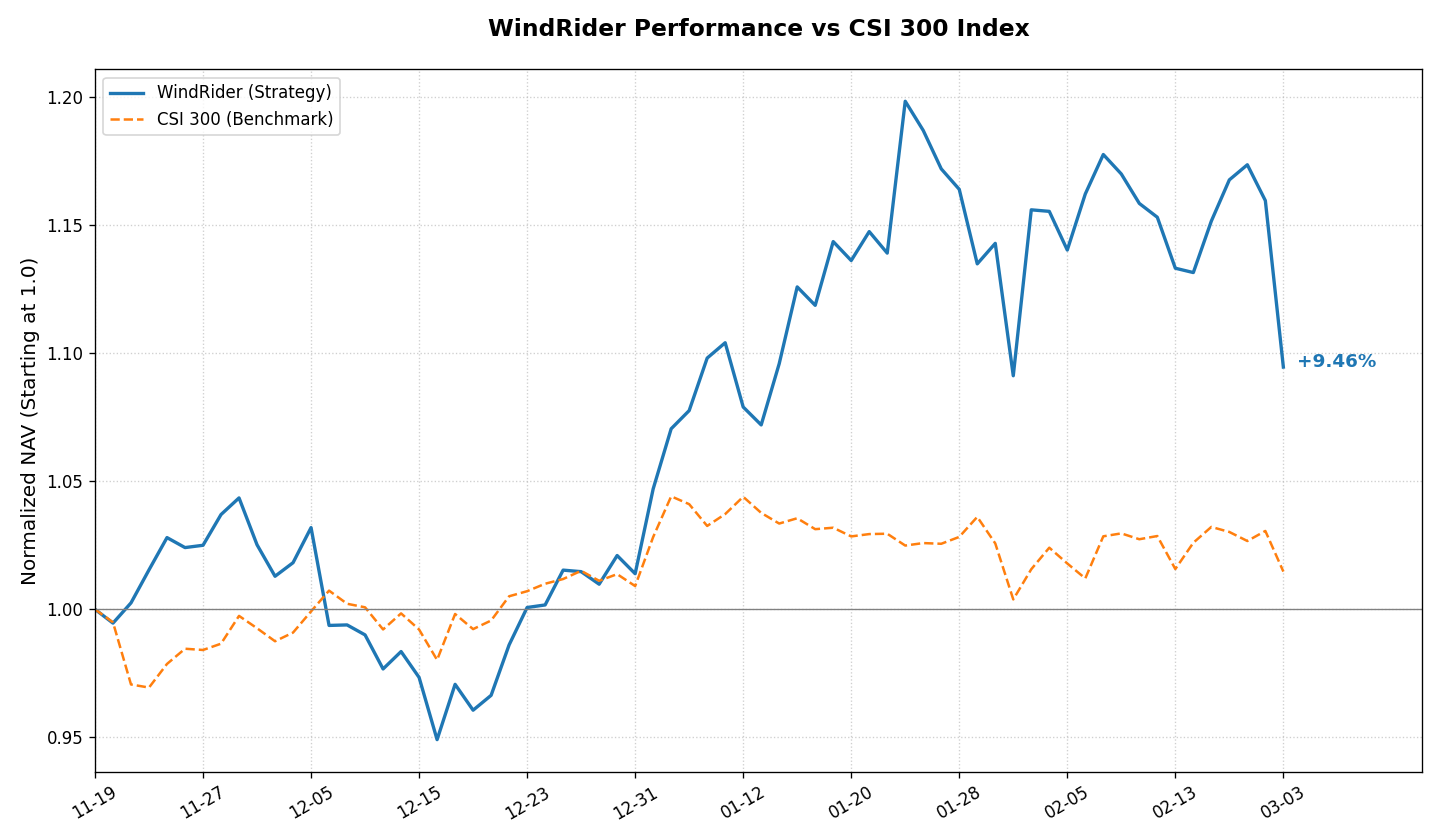
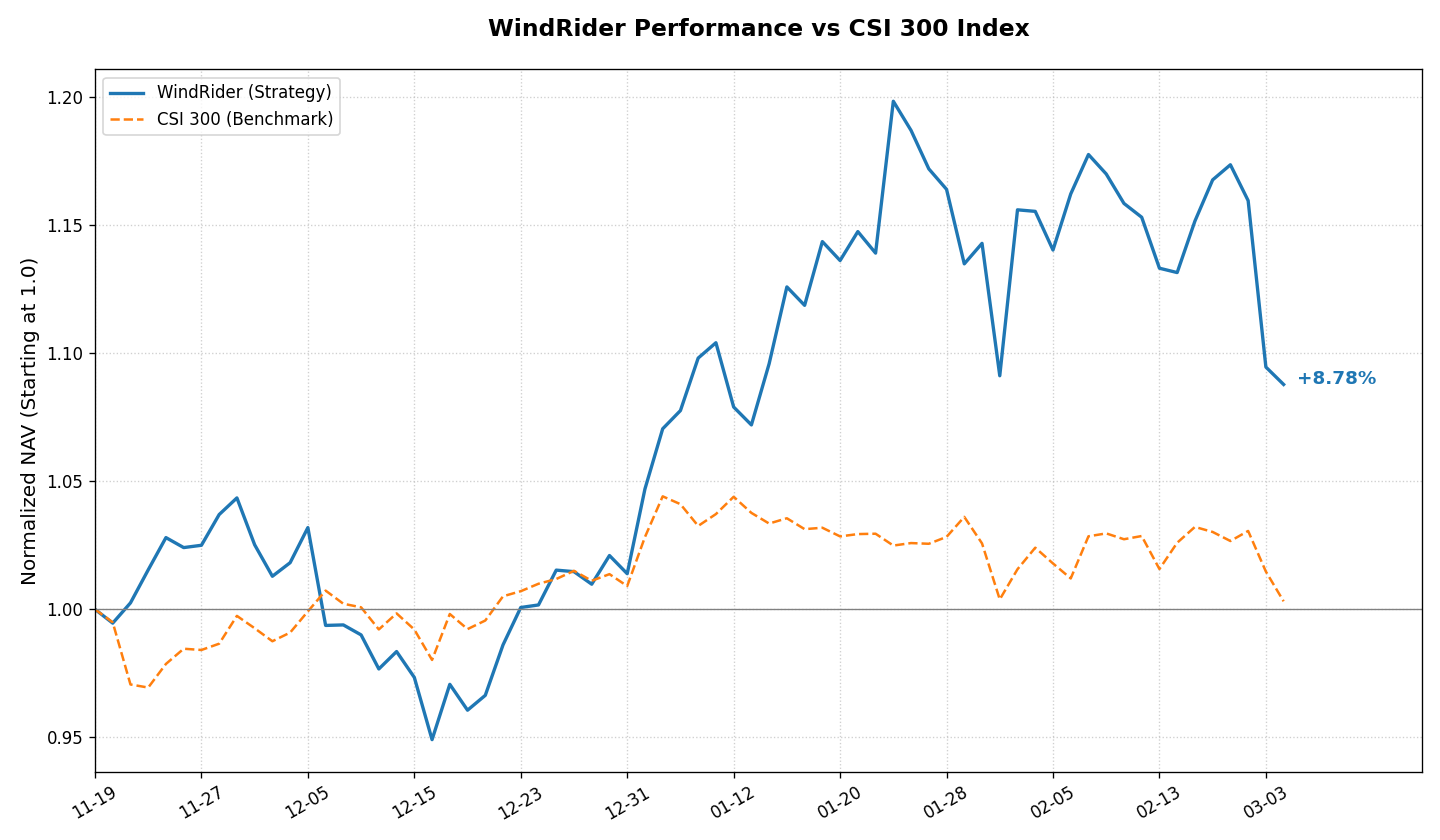
Updated Hugo site content

diff --git a/content/investment/position.md b/content/investment/position.md
@@ -1,8 +1,8 @@
 +++
 title = "如山-股票组合持仓 /// Position"
 summary = "主动管理型股票组合。对标沪深300指数，采用基本面选股策略。"
-date = 2026-03-03T15:10:04+08:00
-lastmod = 2026-03-03T15:10:04+08:00
+date = 2026-03-04T15:10:05+08:00
+lastmod = 2026-03-04T15:10:05+08:00
 draft = false
 description = "如山股票组合持仓"
 +++
@@ -12,29 +12,29 @@ description = "如山股票组合持仓"
 
 ### 风舵股票组合 &nbsp;&nbsp;<span style="color: #E63946; font-weight: bold;">/</span><span style="color: #F1A73E; font-weight: bold;">/</span><span style="color: #000091; font-weight: bold;">/</span>&nbsp;&nbsp; 每日持仓
 WindRider Equity Portfolio <br>
-净值简报 <small>(截至: 2026-03-03)</small>
+净值简报 <small>(截至: 2026-03-04)</small>
 
 |  |  |
 | :--- | :--- |
 | **指数代码：** | WDR.EQ |
 | **成立日期：** | 2025-11-19 |
-| **最新净值：** | 1.0946 |
-| **今日涨跌：** | -5.61% |
+| **最新净值：** | 1.0878 |
+| **今日涨跌：** | -0.62% |
 
 ===========================
 
 | 核心表现 | |
 | :--- | :--- |
-| **累计收益：** | +9.46% |
-| **年化收益：** | +37.33% |
-| **最大回撤：** | -9.05% |
-| **基准点位：** | 4655.90 (CSI300) |
-| **策略状态：** | 已运行 105 天 |
+| **累计收益：** | +8.78% |
+| **年化收益：** | +33.98% |
+| **最大回撤：** | -9.23% |
+| **基准点位：** | 4602.62 (CSI300) |
+| **策略状态：** | 已运行 106 天 |
 
 ### 持仓明细
 | 股票名称 | 成本价 | 现价 | 盈亏 | 占比 |
 | :--- | :--- | :--- | :--- | :--- | :--- |
-| 先导智能 <small>300450</small> | 52.17 | 50.15 | <span style="color:#2A9D8F">-3.87%</span> | 95.19% |
+| 先导智能 <small>300450</small> | 52.17 | 49.82 | <span style="color:#2A9D8F">-4.50%</span> | 95.16% |
 
 <br>
 
